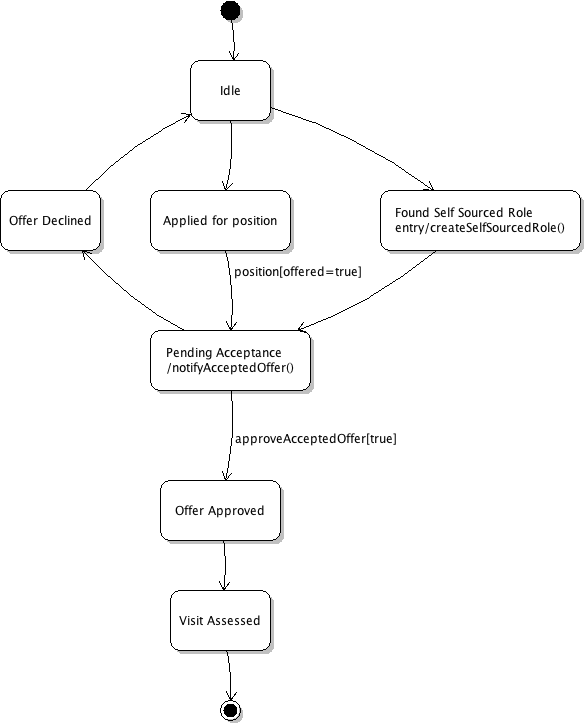
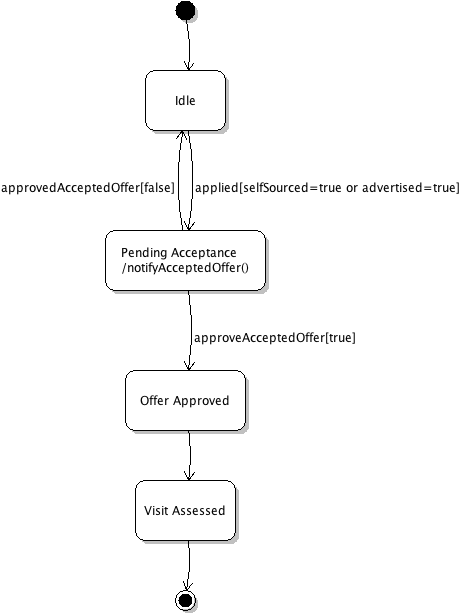
Simplifies student state chart

diff --git a/d6.tex b/d6.tex
@@ -129,14 +129,14 @@ different state at multiple points in the system. There are various
 paths that a student can take through this system and ultimately
 result in the same final state, this is modelling the best case
 scenario for a student where a student will eventually end up with an
-approvable final placement, which we have interpreted as being one of
+approved final placement, which we have interpreted as being one of
 the main functionalities of the system. 
 
-A student contunally changes state between ``Idle'' and ``Pending
-Acceptance'' (through either ``Applied for Position'' or ``Found Self
-Sourced Role'') potentially multiple times until a suitable position
-has been found and only then they will progress on to ``Offer
-Approved''. A Student will then be stagnant until a visit has been
+A student continually changes state between `Idle' and `Pending
+Acceptance' (through either `Applied for Position' or `Found Self
+Sourced Role') potentially multiple times until a suitable position
+has been found and only then they will progress on to `Offer
+Approved'. A Student will then be stagnant until a visit has been
 undertaken and then the student will terminate. A visit is outside the
 control of the Student, so it will stay in this state until changed by
 an outside element.
